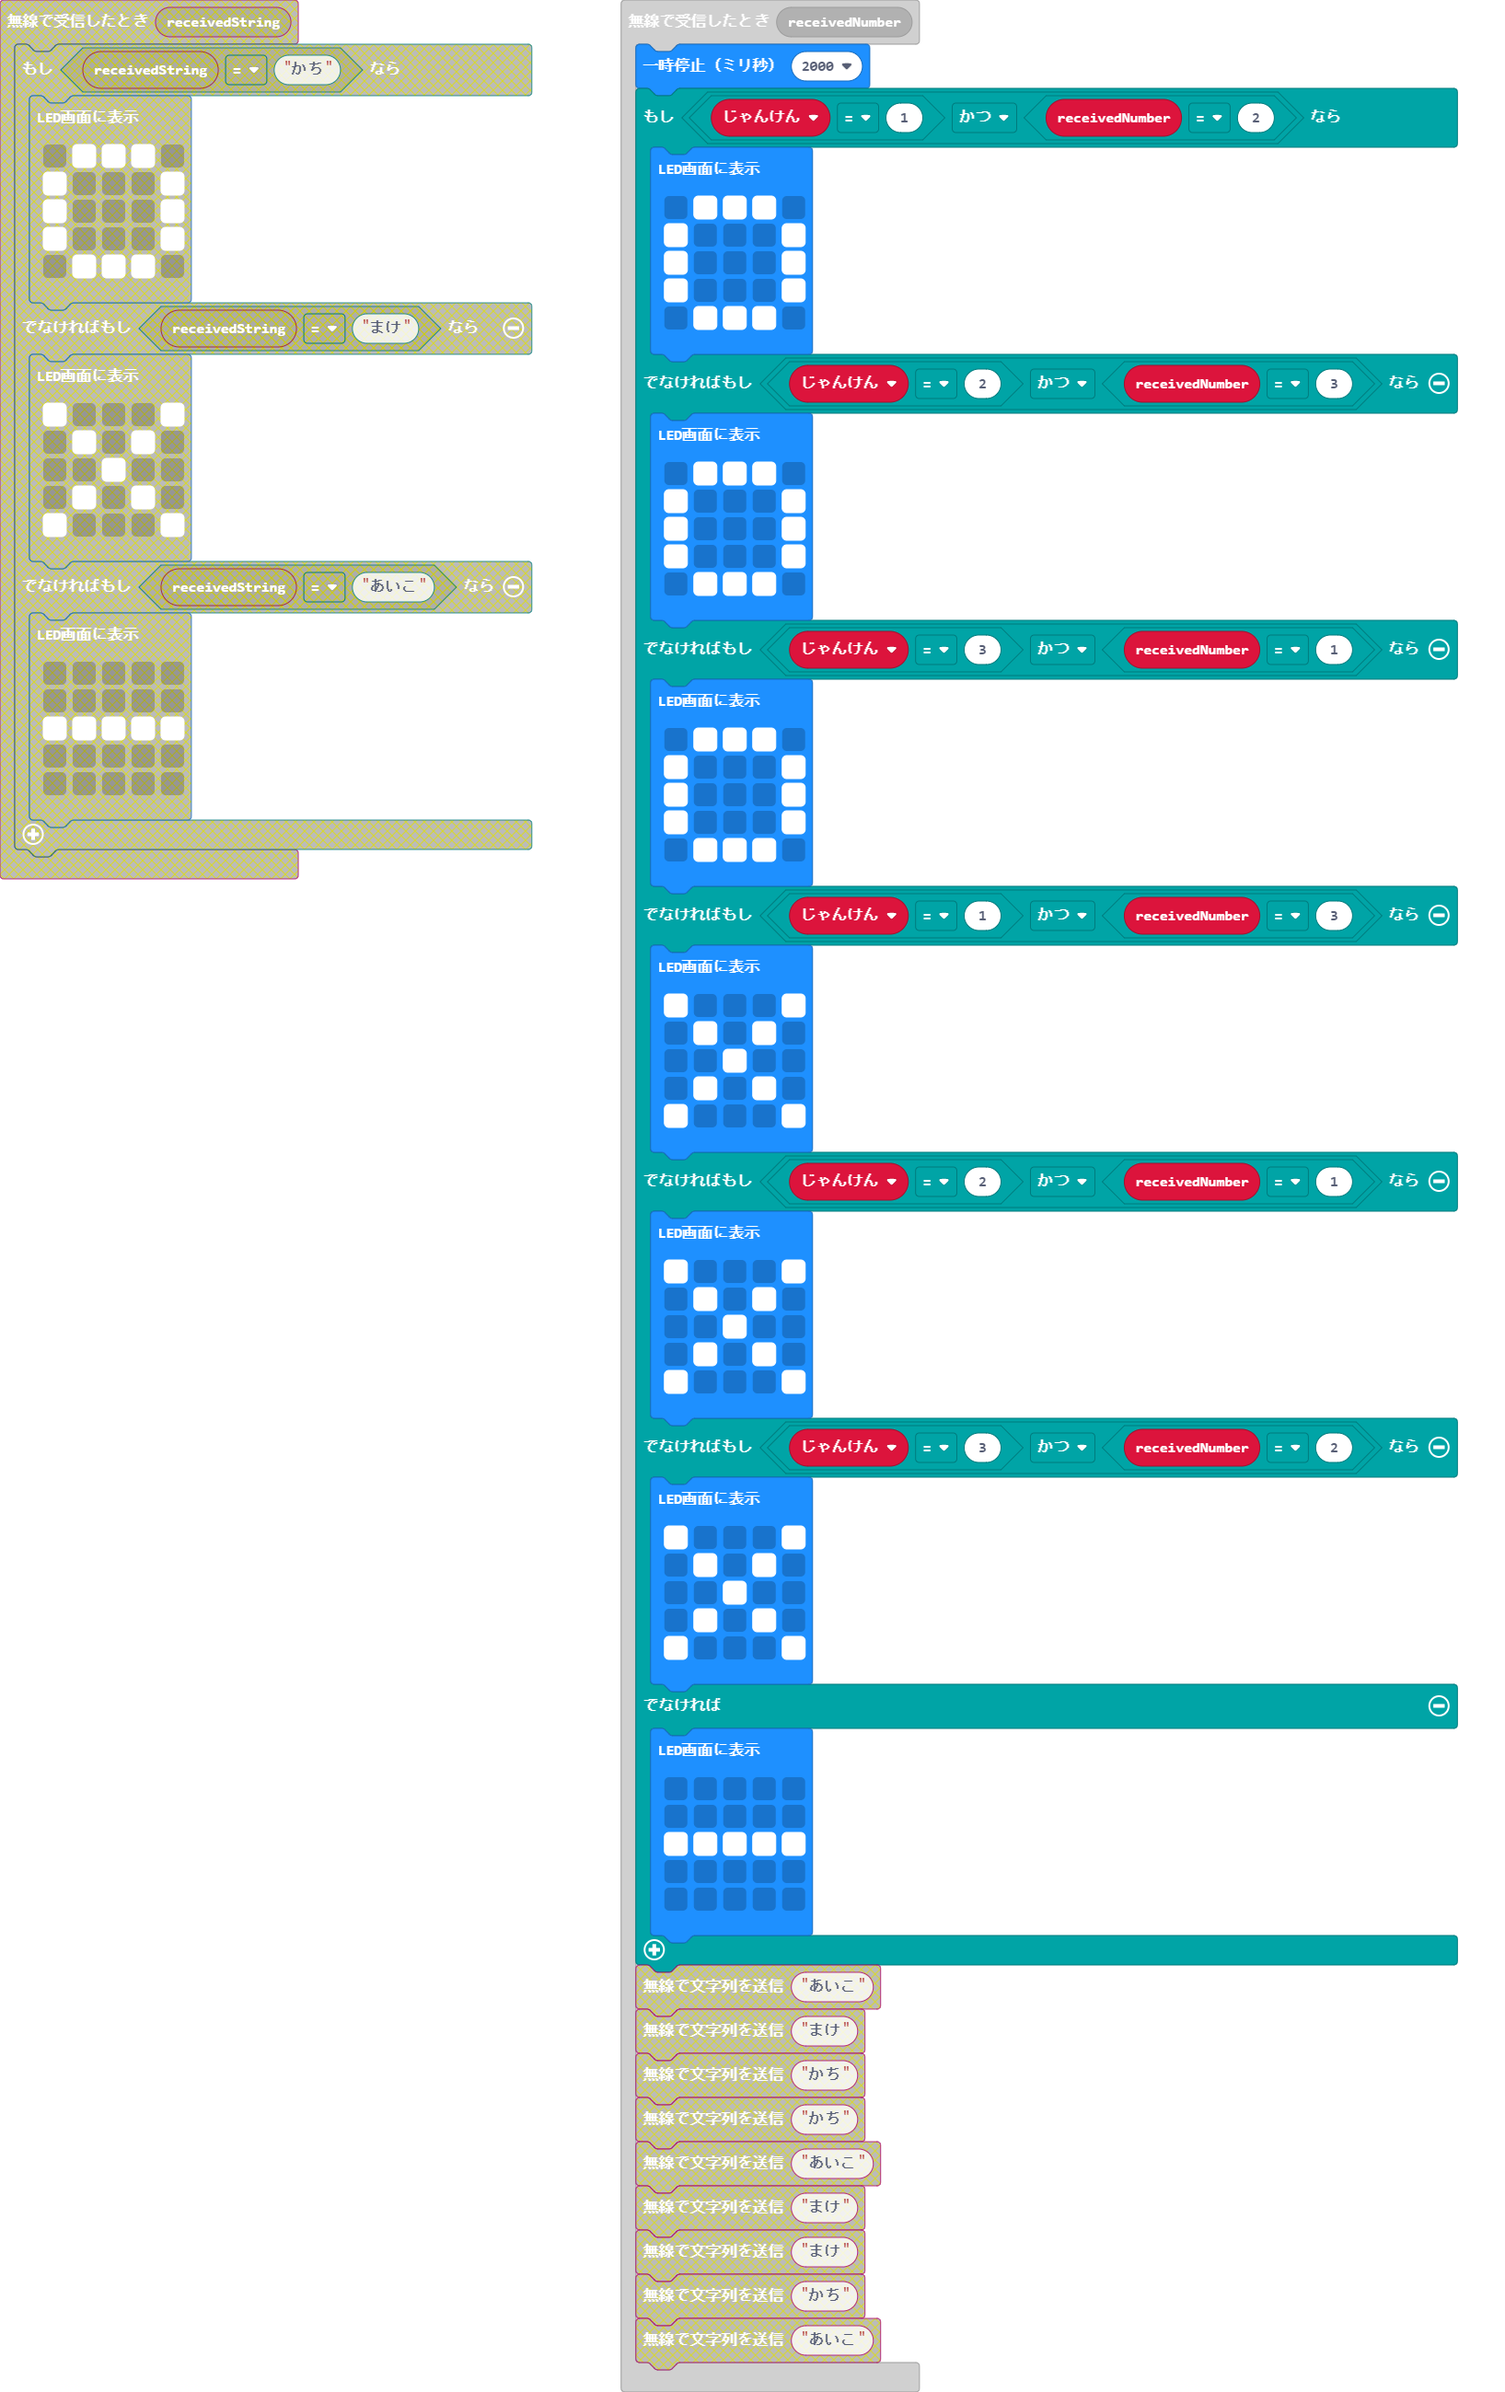
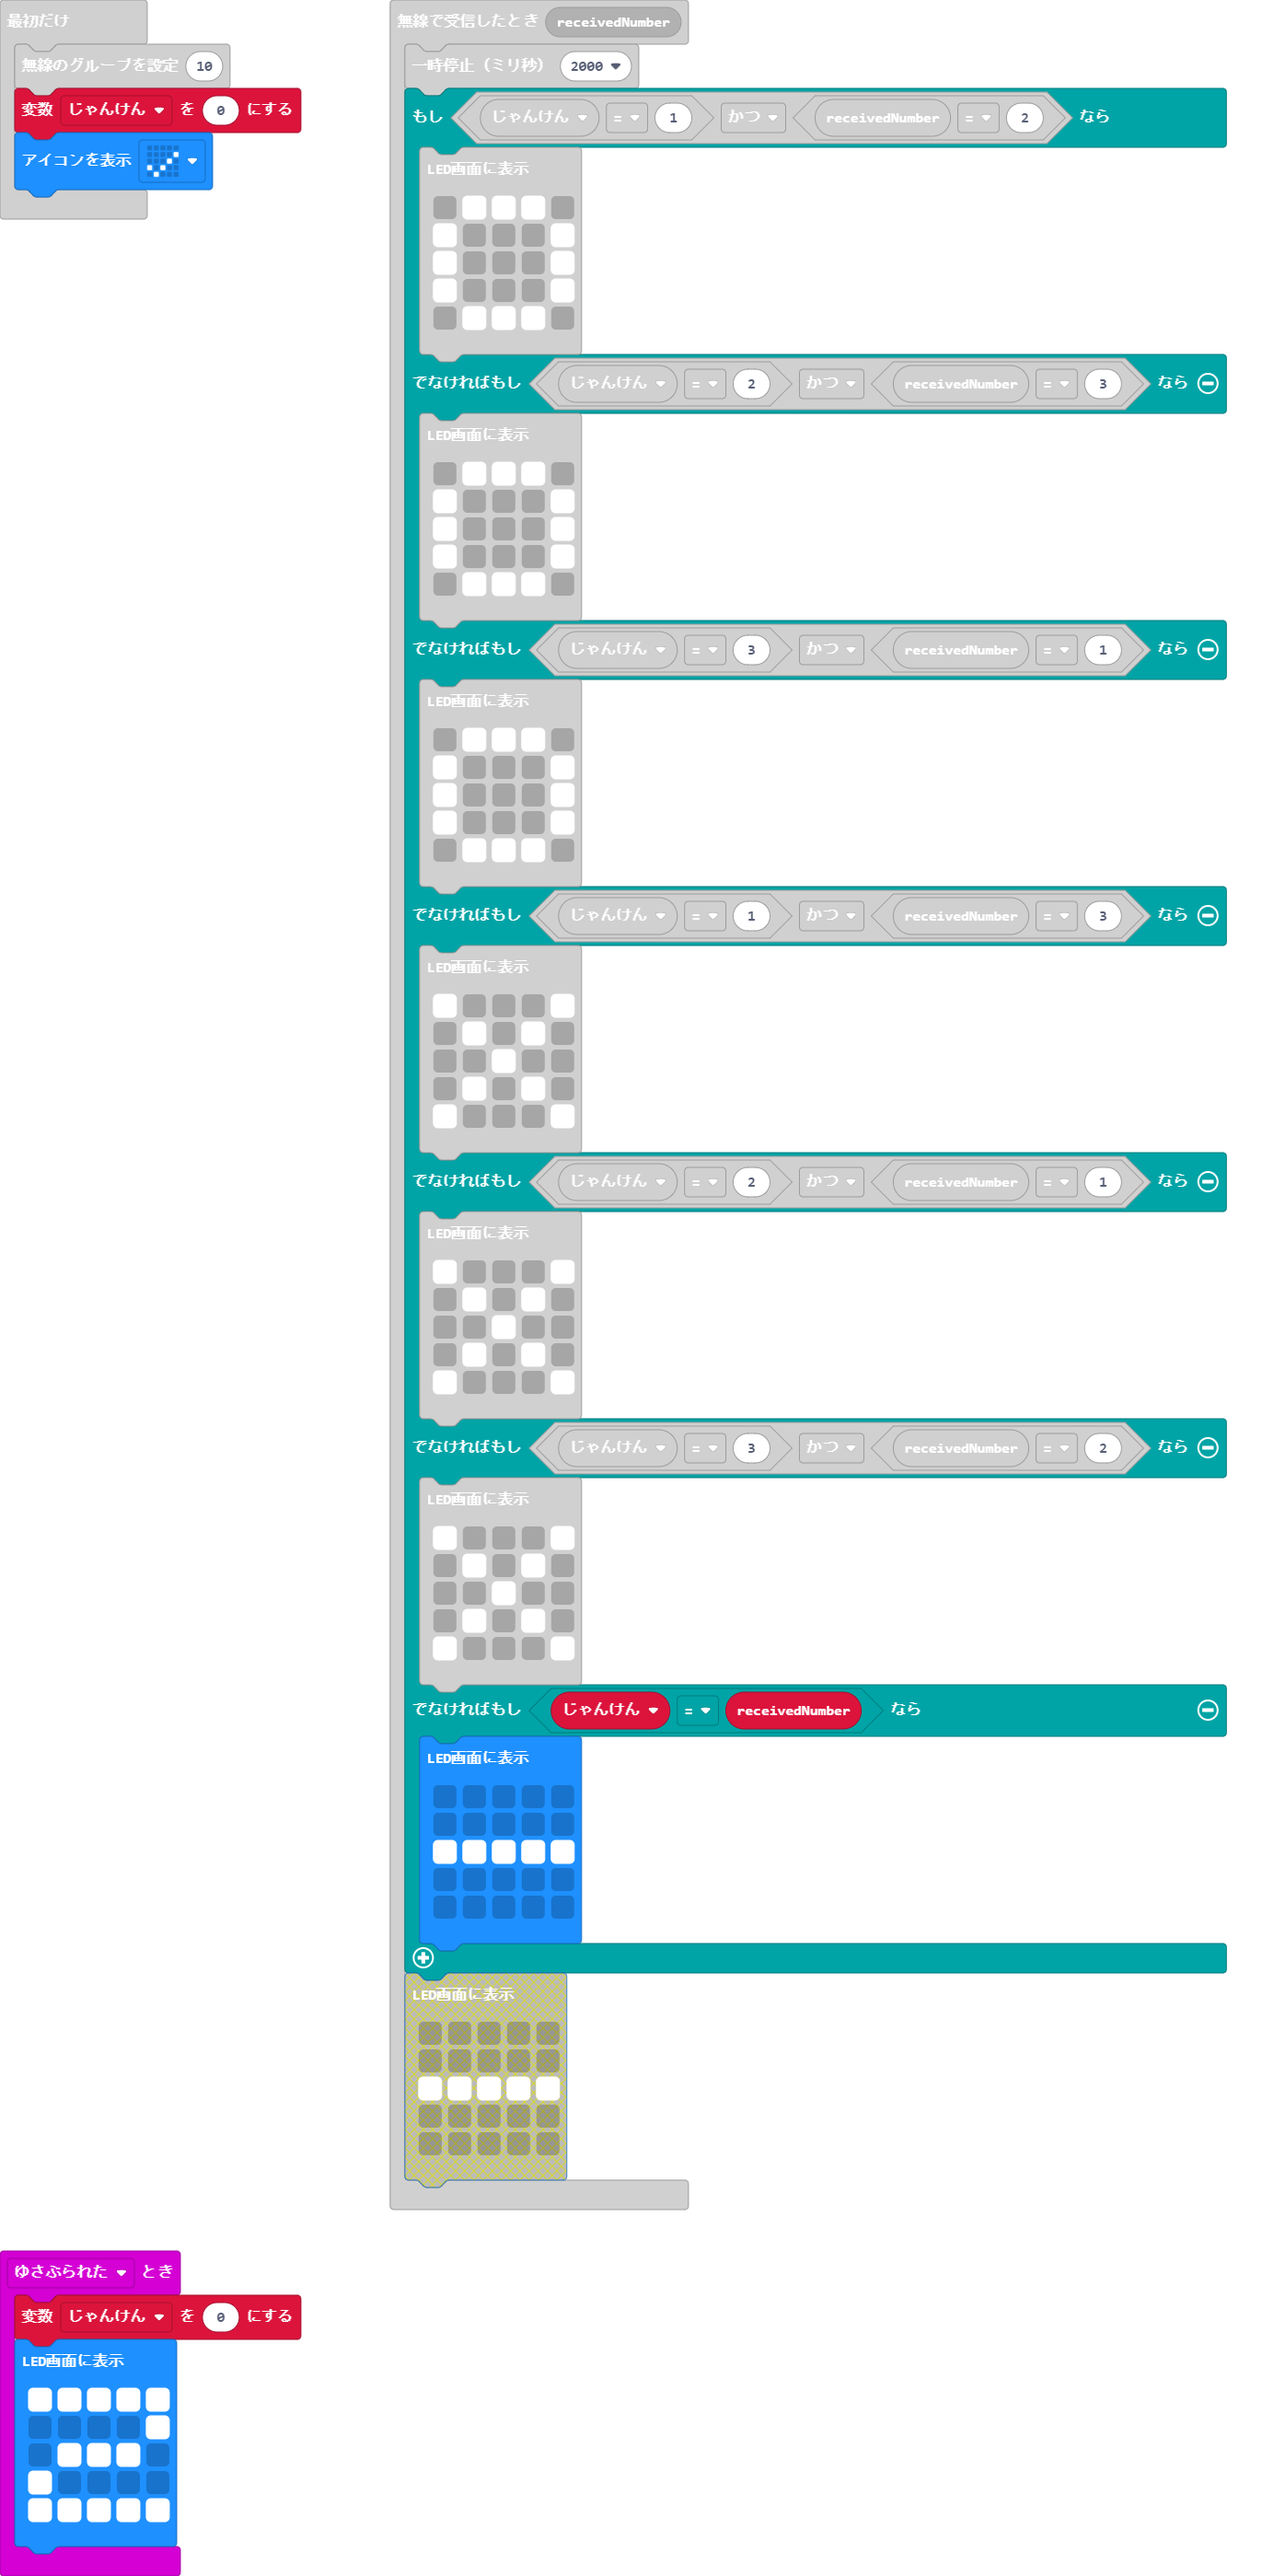
Update main.blocks, main.ts

diff --git a/main.ts b/main.ts
@@ -48,7 +48,7 @@ radio.onReceivedNumber(function (receivedNumber) {
             . # . # .
             # . . . #
             `)
-    } else {
+    } else if (じゃんけん == receivedNumber) {
         basic.showLeds(`
             . . . . .
             . . . . .
@@ -68,6 +68,16 @@ input.onButtonPressed(Button.A, function () {
         `)
     radio.sendNumber(1)
     じゃんけん = 1
+})
+input.onGesture(Gesture.Shake, function () {
+    じゃんけん = 0
+    basic.showLeds(`
+        # # # # #
+        . . . . #
+        . # # # .
+        # . . . .
+        # # # # #
+        `)
 })
 input.onButtonPressed(Button.AB, function () {
     basic.showLeds(`
@@ -93,4 +103,5 @@ input.onButtonPressed(Button.B, function () {
 })
 let じゃんけん = 0
 radio.setGroup(10)
+じゃんけん = 0
 basic.showIcon(IconNames.Yes)
